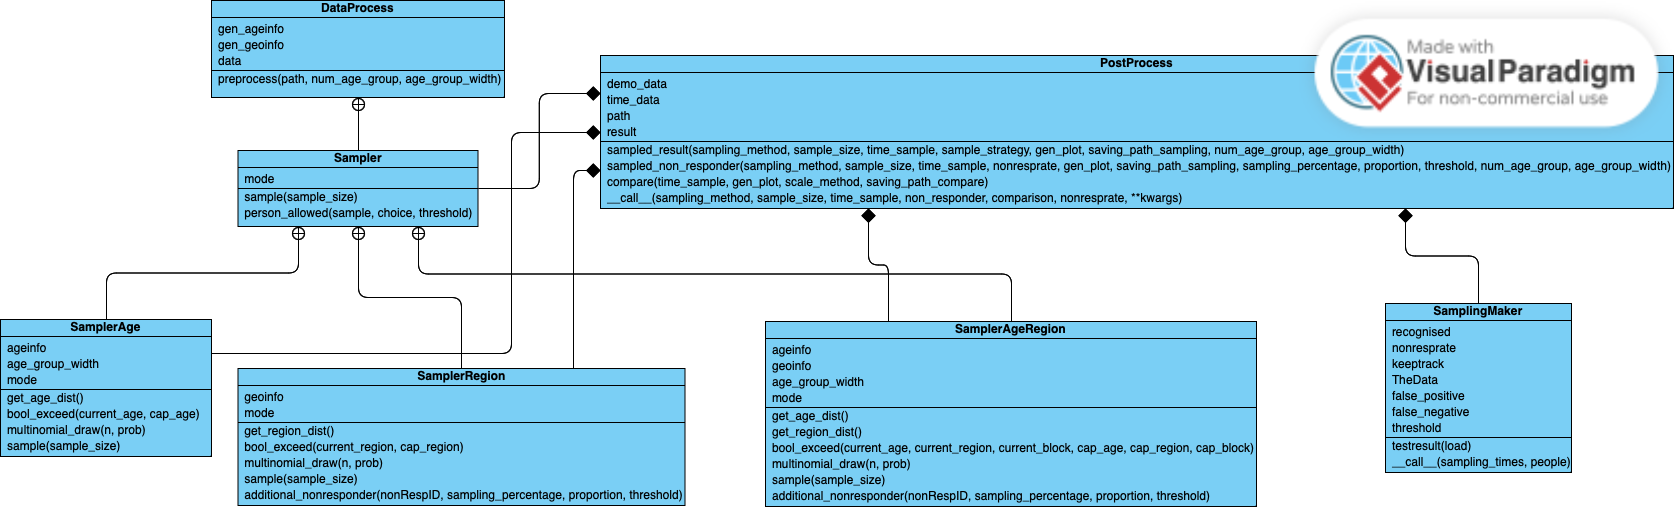
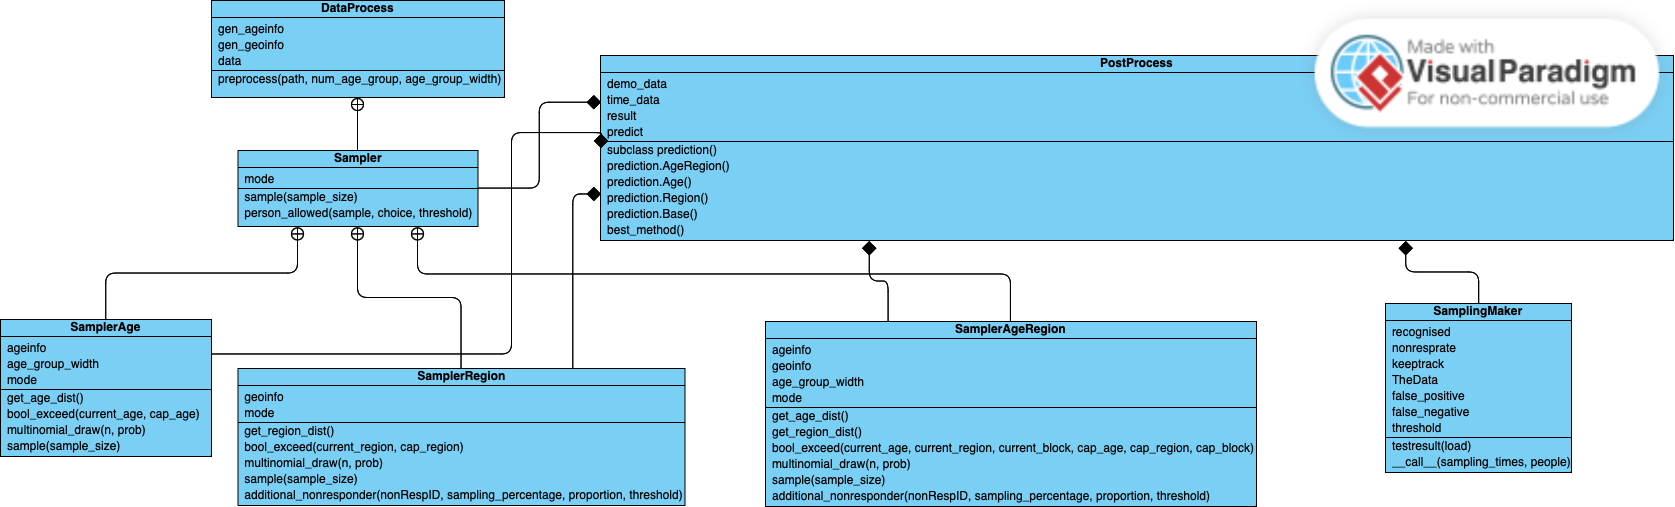
Documentation Update

diff --git a/README.md b/README.md
@@ -22,6 +22,10 @@ We also recommend you to install the [EpiABM](https://github.com/SABS-R3-Epidemi
 pip install -e path/to/pyEpiabm
 ```
 
+## Documentation
+
+ Documentations can be accessed via the above `docs` badge.
+
 ## Class Overview
 
  Here is a UML class diagram for our project:
@@ -34,7 +38,7 @@ pip install -e path/to/pyEpiabm
 ## Use `PostProcess` to generate plots
 
  Fistly, you need to define a new `PostProcess` object and input the demographical data `demodata` and infection data `timedata` generated from pyEpiabm.
- Secondly, you need to specify the sampling method you want to use, time points to sample and sample size. Here, we will use `AgeRegion` as sampling method, `[0, 1, 2, 3, 4, 5]` as time points to be sampled and `3` to be the sample size.
+ Secondly, you can used PostProcess.predict to perform prediction based on different sampling methods. You can directly call the sampling method you want to use as a method; then specify the time points to sample and sample size. Here, we will use `AgeRegion` as sampling method, `[0, 1, 2, 3, 4, 5]` as time points to be sampled and `3` to be the sample size.
  Lastly, you can specify whether you want to consider non-responders and whether youwant to compare your results with the true data by specifying the parameter `non_responder` and `comparison`.
  
  For code example, you can see the following:
@@ -45,13 +49,65 @@ pip install -e path/to/pyEpiabm
 
  ```python
  import epios
- postprocess = epios.PostProcess(time_data=timedata, demo_data=demodata, path='path/to/store/files/processed/during/sampling')
- kwargs = {
-    'gen_plot': True,
-    'saving_path_sampling': 'path/to/save/sampled/infection/rate',
-    'saving_path_compare': 'path/to/save/comparison/plot'
- }
- res, diff = postprocess(sampling_method='AgeRegion', time_sample=[0, 1, 2, 3, 4, 5], sample_size=3, non_responders=False, comparison=True, **kwargs)
+ postprocess = epios.PostProcess(time_data=timedata, demo_data=demodata)
+ 
+ res, diff = postprocess.predict.AgeRegion(
+   time_sample=[0, 1, 2, 3, 4, 5], sample_size=3,
+   non_responders=False,
+   comparison=True,
+   gen_plot=True,
+   saving_path_sampling='path/to/save/sampled/predicted/infection/plot',
+   saving_path_compare='path/to/save/comparison/plot'
+   )
  ```
 
  Now, you will have your figure saved to the given path!
+
+## Use `PostProcess` to select the best sampling method
+
+ Fistly, you need to define a new `PostProcess` object and input the demographical data `demodata` and infection data `timedata` generated from pyEpiabm.
+ Secondly, you can used PostProcess.best_method to compare performance of different sampling methods. You can provide methods you want to compare; then specify the sampling intervals to sample and sample size.
+ Thirdly, you can specify whether you want to consider non-responders and whether youwant to compare your results with the true data by specifying the parameter `non_responder` and `comparison`.
+ Additionally, since sampling methods are stochastic, you can specify the number of iterations run to gain the average performance. Moreover, `parallel_computation` can be turned on to speed up.
+ Lastly, you can turn on the `hyperparameter_autotune` to automatically find the best combination of hyperparameters.
+ 
+ For code example, you can see the following:
+
+ ```console
+ python
+ ```
+
+ ```python
+ import epios
+ postprocess = epios.PostProcess(time_data=timedata, demo_data=demodata)
+ 
+ # Define the input keywards for finding the best method
+ best_method_kwargs = {
+     'age_group_width_range': [14, 17, 20]
+ }
+    
+ # Suppose we want to compare among methods Age-Random, Base-Same,
+ # Base-Random, Region-Random and AgeRegion-Random
+
+ # And suppose we want to turn on the parallel computation to speed up
+   if __name__ == '__main__':  # This line can be omitted when not using parallel computation
+      postprocess.best_method(
+         methods=[
+               'Age',
+               'Base-Same',
+               'Base-Random',
+               'Region-Random',
+               'AgeRegion-Random'
+         ],
+         sample_size=3,
+         hyperparameter_autotune=True,
+         non_responder=False,
+         sampling_interval=7,
+         iteration=1,
+         # When considering non-responders, input the following line
+         # non_resp_rate=0.1,
+         metric='mean',
+         parallel_computation=True,
+         **best_method_kwargs
+      )
+   # Then the output will be printed

diff --git a/epios/docs/Post-process.rst b/epios/docs/Post-process.rst
@@ -61,7 +61,7 @@ Here is an example of using `PostProcess`
             sample_size=3,
             hyperparameter_autotune=True,
             non_responder=False,
-            sampling_interval=1,
+            sampling_interval=7,
             iteration=1,
             # When considering non-responders, input the following line
             # non_resp_rate=0.1,
